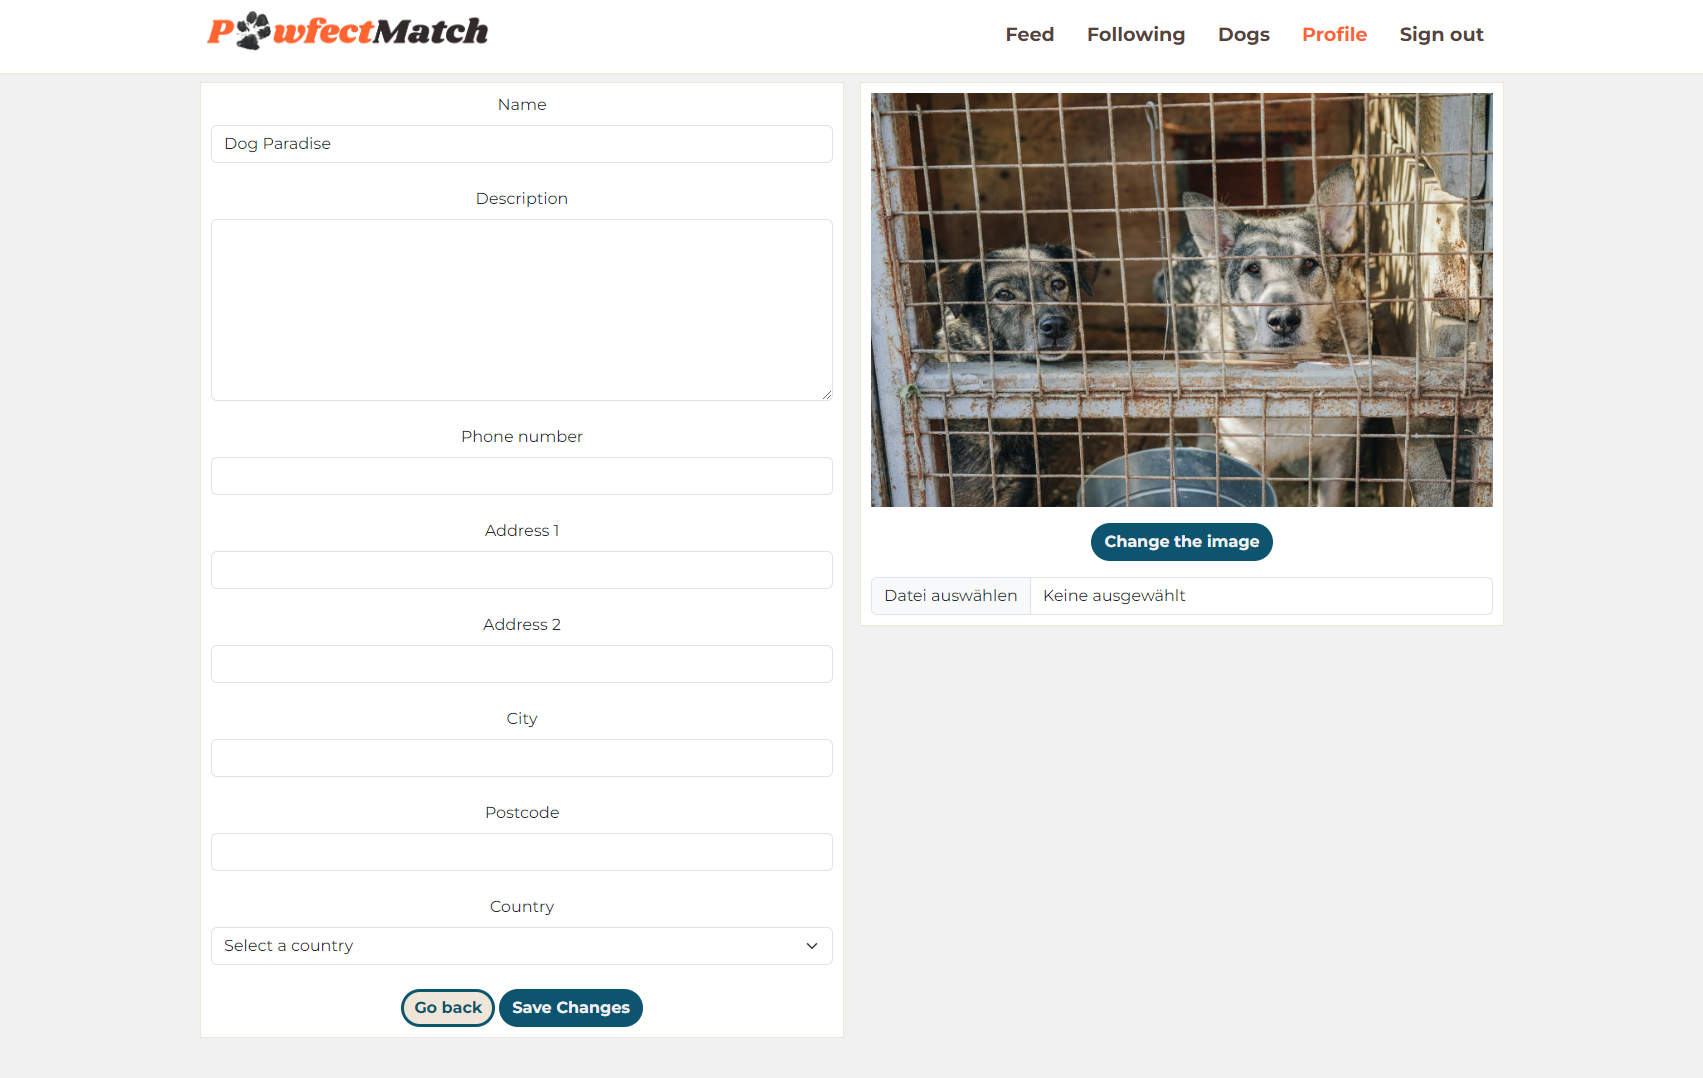
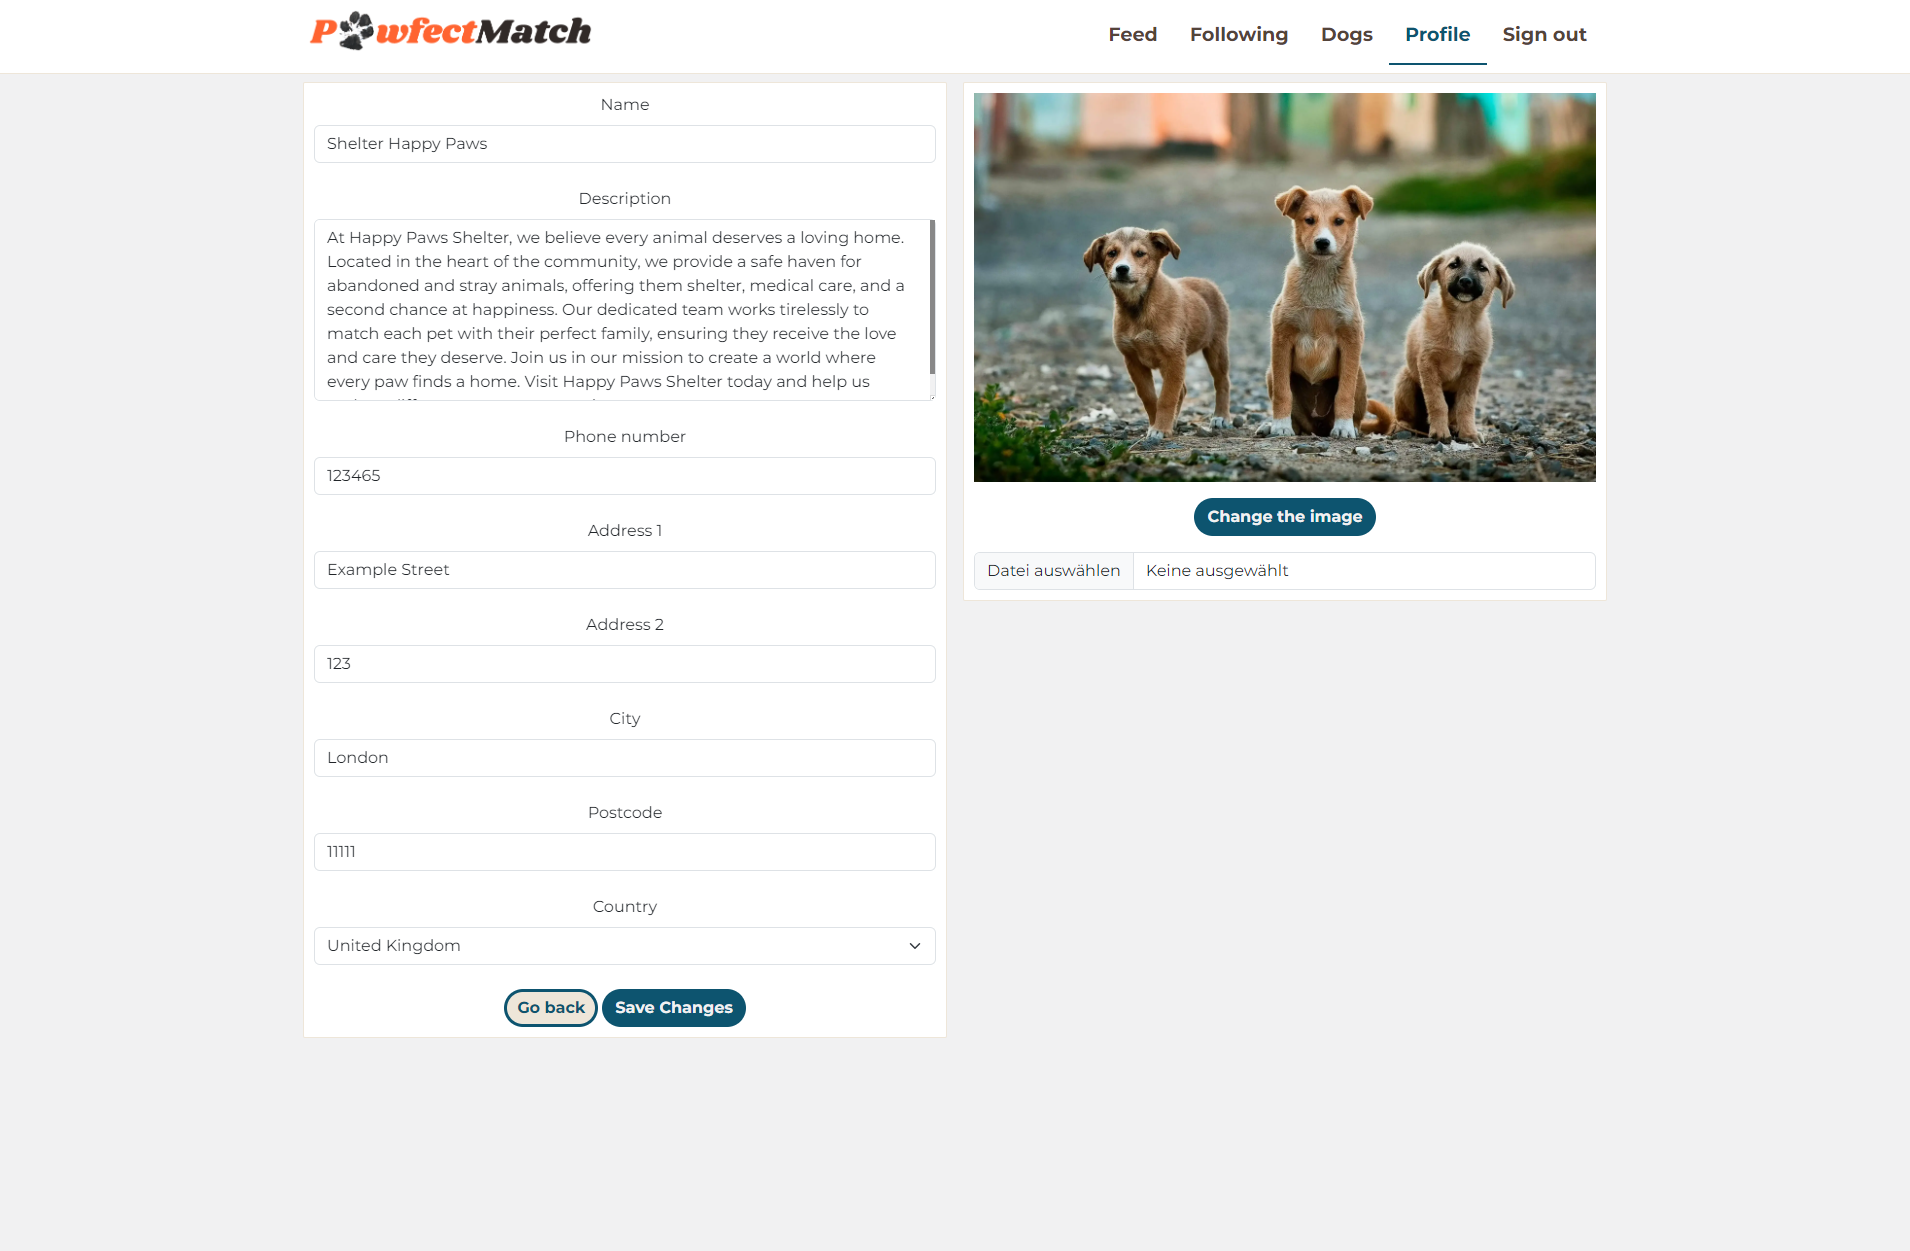
doc: update screenshots for features

diff --git a/src/components/Sidebar.js b/src/components/Sidebar.js
@@ -77,28 +77,34 @@ const Sidebar = () => {
                 )}
                 <div className="mt-5">
                     <h3 className={`text-center ${appStyles.SidebarHeading}`}>Recent adoptions</h3>
-                    {hasLoaded ? (
+                    {currentUser ? (
                         <>
-                            <div className="mt-4 text-left">
-                                {dogs.length ? (
-                                    dogs.map((dog) => (
-                                        <p key={dog.id}>
-                                            <Link to={`/dogs/${dog.id}`} className={appStyles.SidebarLink}>{dog.name}</Link>
-                                            {dog.breed && (
-                                                <span> ({dog.breed})</span>
-                                            )}
-                                        </p>
-                                    ))
-                                ) : (
-                                    <p>No dogs adopted yet.</p>
-                                )}
-                                <div className="mt-4 text-center">
-                                    <Link to={"/adopted"}>Show all adopted dogs</Link>
-                                </div>
-                            </div>
+                            {hasLoaded ? (
+                                <>
+                                    <div className="mt-4 text-left">
+                                        {dogs.length ? (
+                                            dogs.map((dog) => (
+                                                <p key={dog.id}>
+                                                    <Link to={`/dogs/${dog.id}`} className={appStyles.SidebarLink}>{dog.name}</Link>
+                                                    {dog.breed && (
+                                                        <span> ({dog.breed})</span>
+                                                    )}
+                                                </p>
+                                            ))
+                                        ) : (
+                                            <p>No dogs adopted yet.</p>
+                                        )}
+                                        <div className="mt-4 text-center">
+                                            <Link to={"/adopted"}>Show all adopted dogs</Link>
+                                        </div>
+                                    </div>
+                                </>
+                            ) : (
+                                <Asset spinner />
+                            )}
                         </>
                     ) : (
-                        <Asset spinner />
+                        <p>Please sign in to see adoptions.</p>
                     )}
                 </div>
             </Container>

diff --git a/README.md b/README.md
@@ -249,11 +249,11 @@ Users can register at **PawfectMatch** by filling out the *sign-up form*. A prof
 
 To use **PawfectMatch** as a live platform, a further step would be added to the registration to check if the user really is a shelter. This way I can avoid private breeders or people with bad intentions pretending to be a shelter. However, for this project, there will be no real shelters, so I added a simple button to be able to register as both profile types easily.
 
-![Registration shelter desktop](docs/screenshots/registration_shelter_desktop.png)\
-*Registration as a shelter on a desktop*
+![Registration desktop](docs/screenshots/registration_desktop.png)\
+*Registration on a desktop*
 
-![Registration adopter phone](docs/screenshots/registration_adopter_phone.png)\
-*Registration as an adopter on a phone*
+![Registration phone](docs/screenshots/registration_phone.png)\
+*Registration as an shelter on a phone*
 
 After successful registration, the user gets redirected to the *sign-in form*. If incorrect information is sent, error messages are shown in the forms.
 
@@ -272,9 +272,16 @@ For each post, the profile that created the post is shown with the profile image
 ![Feed phone](docs/screenshots/feed_phone.png)\
 *Feed on a phone*
 
+## **Following**
+
+The *Following* page is shown only for logged-in users. It renders posts like the feed, but only from profiles the user follows.
+
+![Following](docs/screenshots/following.png)\
+*Following page on a desktop*
+
 ## **Post CRUD**
 
-Full CRUD functionality is implemented for posts. Logged-in users can create posts and add a title, content and image to it. For the content, I installed a WYSIWYG editor to allow more styling of the post. I installed the package *dompurify* to render the content safely and avoid security risks.
+Full CRUD functionality is implemented for posts. Logged-in shelter users can create posts and add a title, content and image to it. For the content, I installed a WYSIWYG editor to allow more styling of the post. I installed the package *dompurify* to render the content safely and avoid security risks.
 
 ![Create post](docs/screenshots/post_create_desktop.png)\
 *Create a post on a desktop*
@@ -287,17 +294,38 @@ The owner of a post can edit or delete the post. For deletion, I added a confirm
 ![Delete post](docs/screenshots/post_delete_desktop.png)\
 *Delete a post on a desktop*
 
-The detail page of a post contains the whole content.
+The detail page of a post contains the whole content. If there are dogs linked to the post, they are shown underneath the content of the post.
 
 ![Detail post](docs/screenshots/post_detail.png)\
 *Post detail page*
 
 ## **Profile**
 
-A profile is automatically created for a user after registration. User profiles can be viewed by everyone, but only the owner of a profile can edit it. The profile detail page contains all posts published by the user. Users can follow and unfollow other profiles. If the owner of the profile added a name, it is shown at the top of the profile. If not, the username is visible there.
+A profile is automatically created for a user after registration. User profiles can be viewed by everyone, but only the owner of a profile can edit it. The profile detail page contains all posts details added by the user. Users can follow and unfollow other profiles. If the owner of the profile added a name, it is shown at the top of the profile. If not, the username is visible there.
 
-![Profile](docs/screenshots/profile_desktop.png)\
-*Profile detail on a desktop*
+![Profile](docs/screenshots/profile_phone.png)\
+*Profile detail page on a phone*
+
+A link to all created posts is added if the user is a shelter. 
+
+### **Comments**
+
+Comments can be added to profiles and are shown at the bottom of the profile page.
+
+![Profile shelter](docs/screenshots/profile_shelter.png)\
+*Profile detail page of a shelter*
+
+A comment can be edited or deleted by the person who created it.
+
+![Edit comment](docs/screenshots/comment_edit.png)\
+*Edit a comment on a phone*
+
+Banned words can be defined in the admin panel. Comments are checked before posting them to ensure they do not contain a banned word.
+
+![Banned comment](docs/screenshots/banned_comment.png)\
+*Trying to comment a banned word*
+
+### **Edit profile**
 
 Each user can change their name, description, country and profile image. Only shelters are allowed to add an exact address and phone number.
 
@@ -307,14 +335,19 @@ Each user can change their name, description, country and profile image. Only sh
 ![Profile edit adopter](docs/screenshots/profile_edit_adopter_phone.png)\
 *Profile edit adopter on a phone*
 
-## **Saved Posts**
+## **Saved Posts and Recent Adoptions**
 
 Posts can be saved and unsaved. On bigger screens, the five most recently saved posts are listed and linked in the sidebar. There is also a link to a separate page with all saved posts. For mobile screens, the saved posts can be found on this separate page.
 
-![Saved posts desktop](docs/screenshots/saves_desktop.png)\
+![Saved posts desktop](docs/screenshots/feed_sticky_sidebar.png)\
 *Saved posts on a desktop*
 
 The number of saved posts is shown on top of the page. The page as well as the sidebar reload when saving or unsaving a post, so they are always up-to-date.
+
+![Saved posts phone](docs/screenshots/saves_phone.png)\
+*Saved posts on a phone*
+
+Recently adopted dogs are also shown in the sticky sidebar on bigger screens and on an additional page for smaller screens. The page includes all dogs that are marked as adopted.
 
 # **Testing**
 
